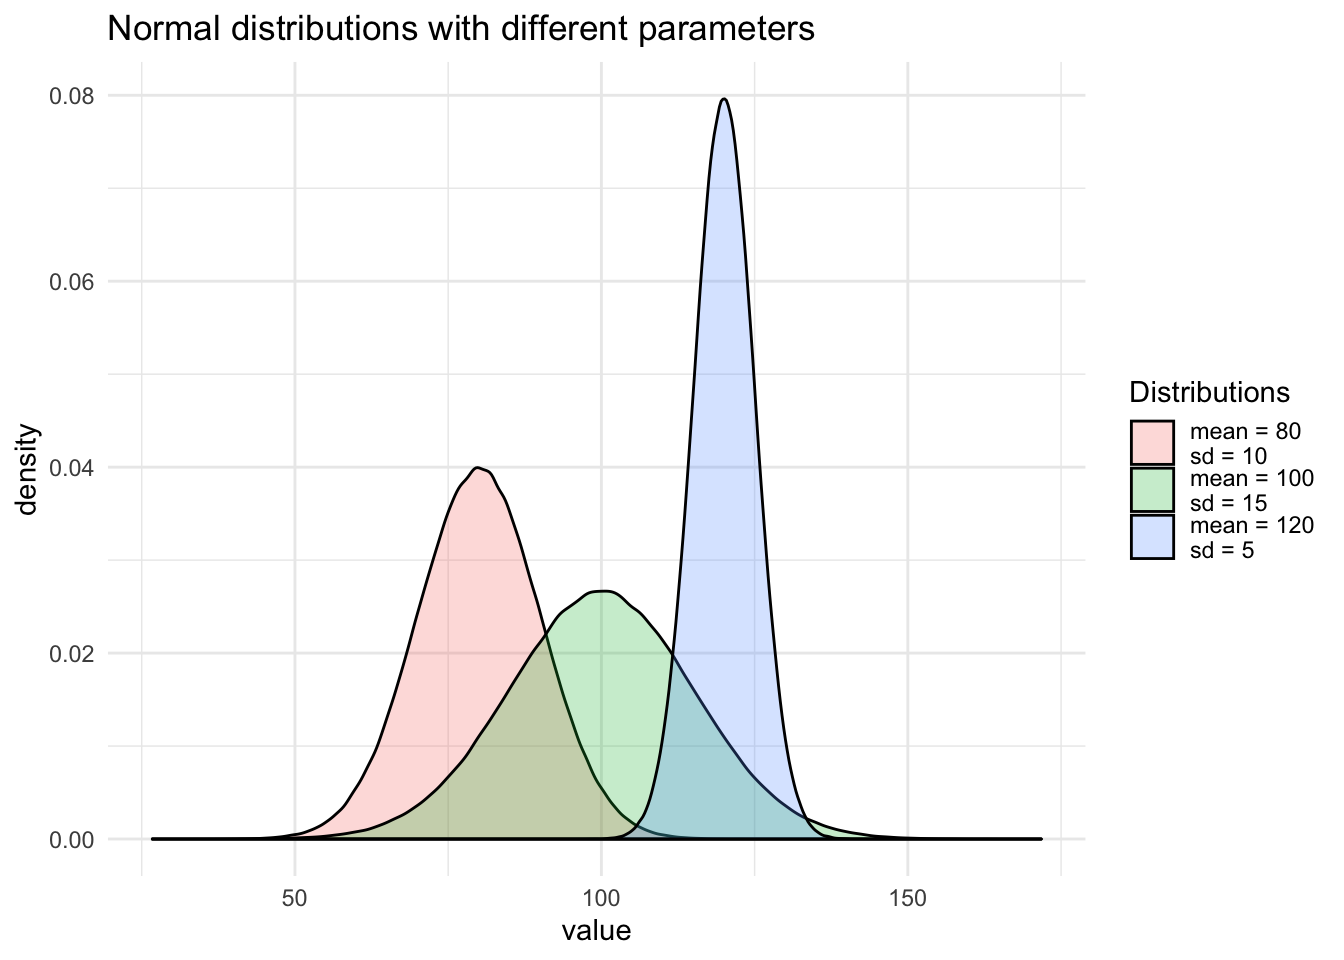
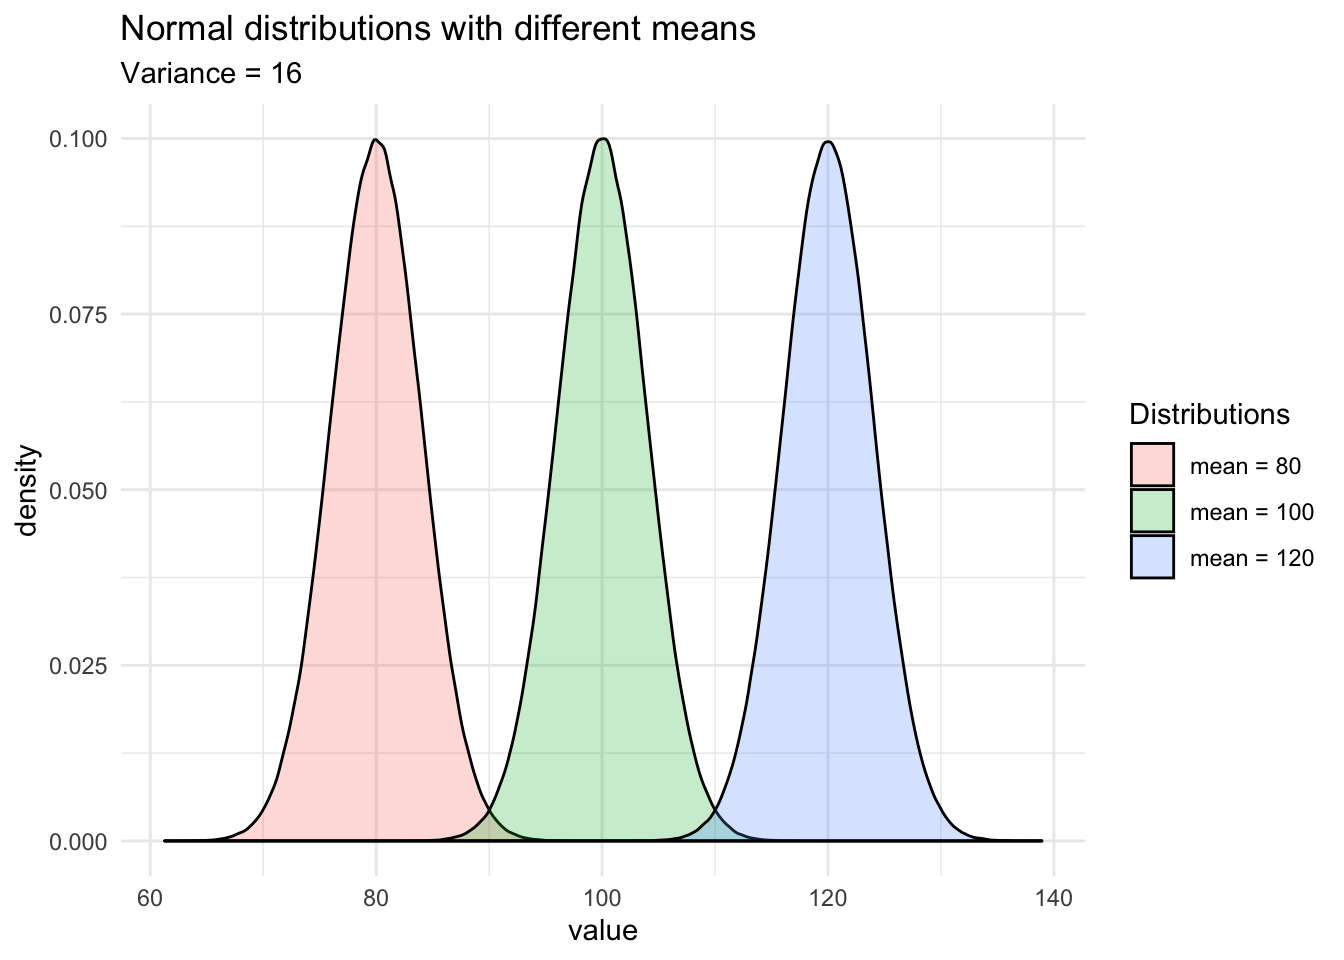
edit post

diff --git a/public/blog/do-my-data-follow-a-normal-distribution-a-note-on-the-most-widely-used-distribution-and-how-to-test-for-normality-in-r/index.html b/public/blog/do-my-data-follow-a-normal-distribution-a-note-on-the-most-widely-used-distribution-and-how-to-test-for-normality-in-r/index.html
@@ -127,7 +127,7 @@
                         </span>
 
                         <span class="reading-time middot">
-                            10 minute read
+                            12 minute read
                         </span>
 
                         <div class="d-none d-md-inline tags">
@@ -210,18 +210,27 @@
 </div>
 <div id="parameters" class="section level1">
 <h1>Parameters</h1>
-<p>Like many probability distributions, the shape and probabilities of the normal distribution is defined entirely by some parameters. The normal distribution has two parameters: (i) the <a href="/blog/descriptive-statistics-by-hand/#mean/">mean <span class="math inline">\(\mu\)</span></a> and (ii) the <a href="/blog/descriptive-statistics-by-hand/#variance/">variance <span class="math inline">\(\sigma^2\)</span></a> (the square of the <a href="/blog/descriptive-statistics-by-hand/#standard-deviation/">standard deviation <span class="math inline">\(\sigma\)</span></a>). The mean <span class="math inline">\(\mu\)</span> locates the center of the distribution, that is, the central tendency of the observations, and the variance <span class="math inline">\(\sigma^2\)</span> measures its spread.</p>
+<p>Like many probability distributions, the shape and probabilities of the normal distribution is defined entirely by some parameters. The normal distribution has two parameters: (i) the <a href="/blog/descriptive-statistics-by-hand/#mean/">mean <span class="math inline">\(\mu\)</span></a> and (ii) the <a href="/blog/descriptive-statistics-by-hand/#variance/">variance <span class="math inline">\(\sigma^2\)</span></a> (the square of the <a href="/blog/descriptive-statistics-by-hand/#standard-deviation/">standard deviation <span class="math inline">\(\sigma\)</span></a>). The mean <span class="math inline">\(\mu\)</span> locates the center of the distribution, that is, the central tendency of the observations, and the variance <span class="math inline">\(\sigma^2\)</span> defines the width of the distribution, that is, the spread of the observations.</p>
 <p>The mean <span class="math inline">\(\mu\)</span> can take on any finite value, whereas the variance <span class="math inline">\(\sigma^2\)</span> can assume any positive finite value (i.e., <span class="math inline">\(\sigma^2 &gt; 0\)</span>). The shape of the normal distribution changes based on these two parameters. Since there is an infinite number of combinations of the mean and variance, there is an infinite number of normal distributions, and thus an infinite number of forms.</p>
-<pre><code>## No id variables; using all as measure variables</code></pre>
-<p><img src="/blog/do-my-data-follow-a-normal-distribution-a-note-on-the-most-widely-used-distribution-and-how-to-test-for-normality-in-r_files/figure-html/unnamed-chunk-1-1.png" width="672" /></p>
+<p>For instance, see how the shapes of the normal distributions vary when the two parameters change:</p>
+<p><img src="/blog/do-my-data-follow-a-normal-distribution-a-note-on-the-most-widely-used-distribution-and-how-to-test-for-normality-in-r_files/figure-html/unnamed-chunk-1-1.png" width="672" style="display: block; margin: auto;" /><img src="/blog/do-my-data-follow-a-normal-distribution-a-note-on-the-most-widely-used-distribution-and-how-to-test-for-normality-in-r_files/figure-html/unnamed-chunk-1-2.png" width="672" style="display: block; margin: auto;" /></p>
+<p>As you can see on the second graph, when the variance (or the standard deviation) decreases, the observations are closer to the mean. On the contrary, when the variance (or standard deviation) increases, it is more likely that observations will be further away from the mean.</p>
 <p>A random variable <span class="math inline">\(X\)</span> which follows a normal distribution with a mean of 430 and a variance of 17 is denoted <span class="math inline">\(X ~ \sim \mathcal{N}(\mu = 430, \sigma^2 = 17)\)</span>.</p>
+<p>We have seen that, although different normal distributions have different shapes, all normal distributions have common characteristics:</p>
+<ul>
+<li>They are symmetric, 50% of the population is above the mean and 50% of the population is below the mean</li>
+<li>The mean, median and mode are equal</li>
+<li>The empirical rule detailed earlier is applicable to all normal distributions</li>
+</ul>
 </div>
 <div id="probabilities-and-quantiles" class="section level1">
 <h1>Probabilities and quantiles</h1>
-<p>Probabilities and quantiles for random variables with normal distributions are easily found using R via the functions <code>pnorm()</code> and <code>qnorm()</code>. Probabilities associated with a normal distribution can also be found using this <a href="https://antoinesoetewey.shinyapps.io/statistics-101/" target="_blank" rel="noopener">Shiny app</a> (select the normal distribution).</p>
-<p>Although there are infinitely many normal distributions (since there is a normal distribution for every combination of mean and variance), we need only one table: the <strong>standard normal distribution</strong>. A normal random variable <span class="math inline">\(X\)</span> can always be transformed to a standard normal random variable <span class="math inline">\(Z\)</span>, a process known as “scaling” or “standardization”, by using the formula:</p>
+<p>Probabilities and quantiles for random variables with normal distributions are easily found using R via the functions <code>pnorm()</code> and <code>qnorm()</code>. Probabilities associated with a normal distribution can also be found using this <a href="https://antoinesoetewey.shinyapps.io/statistics-101/" target="_blank" rel="noopener">Shiny app</a>.</p>
+<p>Although there are infinitely many normal distributions (since there is a normal distribution for every combination of mean and variance), we need only one table: the <strong>standard normal distribution</strong>. The normal standard distribution is a special case of the normal distribution where the mean is equal to 0 and the variance is equal to 1. A normal random variable <span class="math inline">\(X\)</span> can always be transformed to a standard normal random variable <span class="math inline">\(Z\)</span>, a process known as “scaling” or “standardization”, by substracting the mean from the observation, and dividing the result by the standard deviation. Formally:</p>
 <p><span class="math display">\[Z = \frac{X - \mu}{\sigma}\]</span></p>
-<p>From this formula, we see that <span class="math inline">\(Z\)</span> allows to see how far away is one single observation from the mean of all observations, with the distance expressed in standard deviations. The mean of the standard normal distribution is 0, and its standard deviation is 1, <span class="math inline">\(Z ~ \sim \mathcal{N}(\mu = 0, \sigma^2 = 1)\)</span>.</p>
+<p>So the mean of the standard normal distribution is 0, and its variance is 1, denoted <span class="math inline">\(Z ~ \sim \mathcal{N}(\mu = 0, \sigma^2 = 1)\)</span>. From this formula, we see that <span class="math inline">\(Z\)</span>, referred as standard score or <span class="math inline">\(Z\)</span> score, allows to see how far away one specific observation is from the mean of all observations, with the distance expressed in standard deviations. In other words, the <span class="math inline">\(Z\)</span> score corresponds to the number of standard deviations one observation is away from the mean. A positive <span class="math inline">\(Z\)</span> score means that the specific observation is above the mean, whereas a negative <span class="math inline">\(Z\)</span> score means that the specific observation is below the mean. <span class="math inline">\(Z\)</span> scores are often used to compare an individual to her peers.</p>
+<p>For instance, suppose a student scoring 60 at a statistics exam with the mean score of the class being 40, and scoring 60 at an economics exam with the mean score of the class being 80 (assume the standard deviations are the same for both exams). Given the “raw” scores, one would say that the student performed as well in statistics as in economics. However, taking into consideration her peers, the student performed relatively better in statistics than in economics. Computing <span class="math inline">\(Z\)</span> scores allows to take into consideration all other students (i.e., the entire distribution) and gives a better measure of comparison.</p>
+<p>Furthermore, <span class="math inline">\(Z\)</span> score also enables to compare observations that would otherwise be difficult because they have different units for example. Suppose you want to compare a salary in € with a weight in kg. Without standardization, there is no way to conclude whether someone is more extreme in terms of her wage or in terms of her weight.</p>
 <div id="examples-in-r-and-by-hand" class="section level2">
 <h2>Examples in R and by hand</h2>
 <p><em>Note that there are several ways to arrive at the solution in the following exercises. You may therefore use other steps than the ones presented to obtain the same result.</em></p>

diff --git a/content/blog/do-my-data-follow-a-normal-distribution-a-note-on-the-most-widely-used-distribution-and-how-to-test-for-normality-in-r.html b/content/blog/do-my-data-follow-a-normal-distribution-a-note-on-the-most-widely-used-distribution-and-how-to-test-for-normality-in-r.html
@@ -73,18 +73,27 @@ bibliography: bibliography.bib
 </div>
 <div id="parameters" class="section level1">
 <h1>Parameters</h1>
-<p>Like many probability distributions, the shape and probabilities of the normal distribution is defined entirely by some parameters. The normal distribution has two parameters: (i) the <a href="/blog/descriptive-statistics-by-hand/#mean/">mean <span class="math inline">\(\mu\)</span></a> and (ii) the <a href="/blog/descriptive-statistics-by-hand/#variance/">variance <span class="math inline">\(\sigma^2\)</span></a> (the square of the <a href="/blog/descriptive-statistics-by-hand/#standard-deviation/">standard deviation <span class="math inline">\(\sigma\)</span></a>). The mean <span class="math inline">\(\mu\)</span> locates the center of the distribution, that is, the central tendency of the observations, and the variance <span class="math inline">\(\sigma^2\)</span> measures its spread.</p>
+<p>Like many probability distributions, the shape and probabilities of the normal distribution is defined entirely by some parameters. The normal distribution has two parameters: (i) the <a href="/blog/descriptive-statistics-by-hand/#mean/">mean <span class="math inline">\(\mu\)</span></a> and (ii) the <a href="/blog/descriptive-statistics-by-hand/#variance/">variance <span class="math inline">\(\sigma^2\)</span></a> (the square of the <a href="/blog/descriptive-statistics-by-hand/#standard-deviation/">standard deviation <span class="math inline">\(\sigma\)</span></a>). The mean <span class="math inline">\(\mu\)</span> locates the center of the distribution, that is, the central tendency of the observations, and the variance <span class="math inline">\(\sigma^2\)</span> defines the width of the distribution, that is, the spread of the observations.</p>
 <p>The mean <span class="math inline">\(\mu\)</span> can take on any finite value, whereas the variance <span class="math inline">\(\sigma^2\)</span> can assume any positive finite value (i.e., <span class="math inline">\(\sigma^2 &gt; 0\)</span>). The shape of the normal distribution changes based on these two parameters. Since there is an infinite number of combinations of the mean and variance, there is an infinite number of normal distributions, and thus an infinite number of forms.</p>
-<pre><code>## No id variables; using all as measure variables</code></pre>
-<p><img src="/blog/do-my-data-follow-a-normal-distribution-a-note-on-the-most-widely-used-distribution-and-how-to-test-for-normality-in-r_files/figure-html/unnamed-chunk-1-1.png" width="672" /></p>
+<p>For instance, see how the shapes of the normal distributions vary when the two parameters change:</p>
+<p><img src="/blog/do-my-data-follow-a-normal-distribution-a-note-on-the-most-widely-used-distribution-and-how-to-test-for-normality-in-r_files/figure-html/unnamed-chunk-1-1.png" width="672" style="display: block; margin: auto;" /><img src="/blog/do-my-data-follow-a-normal-distribution-a-note-on-the-most-widely-used-distribution-and-how-to-test-for-normality-in-r_files/figure-html/unnamed-chunk-1-2.png" width="672" style="display: block; margin: auto;" /></p>
+<p>As you can see on the second graph, when the variance (or the standard deviation) decreases, the observations are closer to the mean. On the contrary, when the variance (or standard deviation) increases, it is more likely that observations will be further away from the mean.</p>
 <p>A random variable <span class="math inline">\(X\)</span> which follows a normal distribution with a mean of 430 and a variance of 17 is denoted <span class="math inline">\(X ~ \sim \mathcal{N}(\mu = 430, \sigma^2 = 17)\)</span>.</p>
+<p>We have seen that, although different normal distributions have different shapes, all normal distributions have common characteristics:</p>
+<ul>
+<li>They are symmetric, 50% of the population is above the mean and 50% of the population is below the mean</li>
+<li>The mean, median and mode are equal</li>
+<li>The empirical rule detailed earlier is applicable to all normal distributions</li>
+</ul>
 </div>
 <div id="probabilities-and-quantiles" class="section level1">
 <h1>Probabilities and quantiles</h1>
-<p>Probabilities and quantiles for random variables with normal distributions are easily found using R via the functions <code>pnorm()</code> and <code>qnorm()</code>. Probabilities associated with a normal distribution can also be found using this <a href="https://antoinesoetewey.shinyapps.io/statistics-101/" target="_blank" rel="noopener">Shiny app</a> (select the normal distribution).</p>
-<p>Although there are infinitely many normal distributions (since there is a normal distribution for every combination of mean and variance), we need only one table: the <strong>standard normal distribution</strong>. A normal random variable <span class="math inline">\(X\)</span> can always be transformed to a standard normal random variable <span class="math inline">\(Z\)</span>, a process known as “scaling” or “standardization”, by using the formula:</p>
+<p>Probabilities and quantiles for random variables with normal distributions are easily found using R via the functions <code>pnorm()</code> and <code>qnorm()</code>. Probabilities associated with a normal distribution can also be found using this <a href="https://antoinesoetewey.shinyapps.io/statistics-101/" target="_blank" rel="noopener">Shiny app</a>.</p>
+<p>Although there are infinitely many normal distributions (since there is a normal distribution for every combination of mean and variance), we need only one table: the <strong>standard normal distribution</strong>. The normal standard distribution is a special case of the normal distribution where the mean is equal to 0 and the variance is equal to 1. A normal random variable <span class="math inline">\(X\)</span> can always be transformed to a standard normal random variable <span class="math inline">\(Z\)</span>, a process known as “scaling” or “standardization”, by substracting the mean from the observation, and dividing the result by the standard deviation. Formally:</p>
 <p><span class="math display">\[Z = \frac{X - \mu}{\sigma}\]</span></p>
-<p>From this formula, we see that <span class="math inline">\(Z\)</span> allows to see how far away is one single observation from the mean of all observations, with the distance expressed in standard deviations. The mean of the standard normal distribution is 0, and its standard deviation is 1, <span class="math inline">\(Z ~ \sim \mathcal{N}(\mu = 0, \sigma^2 = 1)\)</span>.</p>
+<p>So the mean of the standard normal distribution is 0, and its variance is 1, denoted <span class="math inline">\(Z ~ \sim \mathcal{N}(\mu = 0, \sigma^2 = 1)\)</span>. From this formula, we see that <span class="math inline">\(Z\)</span>, referred as standard score or <span class="math inline">\(Z\)</span> score, allows to see how far away one specific observation is from the mean of all observations, with the distance expressed in standard deviations. In other words, the <span class="math inline">\(Z\)</span> score corresponds to the number of standard deviations one observation is away from the mean. A positive <span class="math inline">\(Z\)</span> score means that the specific observation is above the mean, whereas a negative <span class="math inline">\(Z\)</span> score means that the specific observation is below the mean. <span class="math inline">\(Z\)</span> scores are often used to compare an individual to her peers.</p>
+<p>For instance, suppose a student scoring 60 at a statistics exam with the mean score of the class being 40, and scoring 60 at an economics exam with the mean score of the class being 80 (assume the standard deviations are the same for both exams). Given the “raw” scores, one would say that the student performed as well in statistics as in economics. However, taking into consideration her peers, the student performed relatively better in statistics than in economics. Computing <span class="math inline">\(Z\)</span> scores allows to take into consideration all other students (i.e., the entire distribution) and gives a better measure of comparison.</p>
+<p>Furthermore, <span class="math inline">\(Z\)</span> score also enables to compare observations that would otherwise be difficult because they have different units for example. Suppose you want to compare a salary in € with a weight in kg. Without standardization, there is no way to conclude whether someone is more extreme in terms of her wage or in terms of her weight.</p>
 <div id="examples-in-r-and-by-hand" class="section level2">
 <h2>Examples in R and by hand</h2>
 <p><em>Note that there are several ways to arrive at the solution in the following exercises. You may therefore use other steps than the ones presented to obtain the same result.</em></p>
